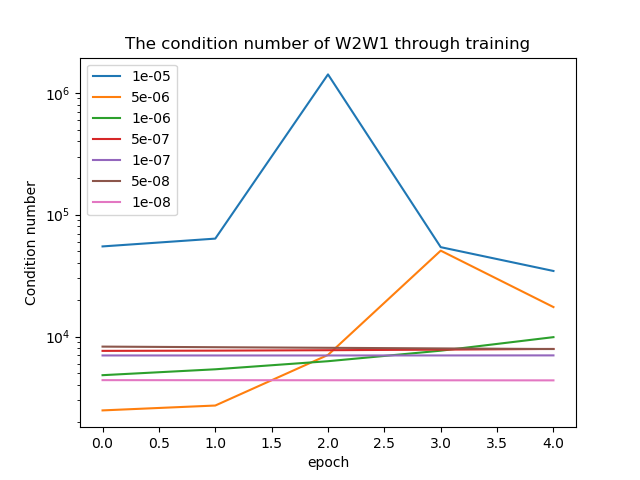
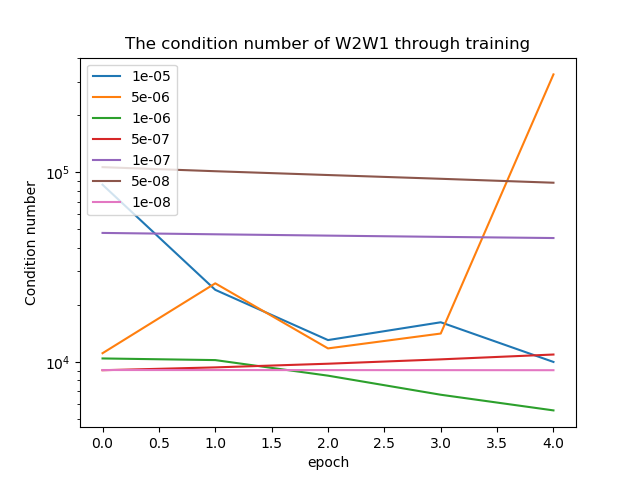
New graph

diff --git a/dynamics/autograd.py b/dynamics/autograd.py
@@ -15,7 +15,7 @@ y_size, x_size, mid_dim = 100, 100, 100
 
 learning_rate_list = [1e-5, 5e-6, 1e-6, 5e-7, 1e-7, 5e-8, 1e-8]
 
-epoch = int(5)
+epoch = int(5E4)
 x_axis = list(range(epoch))
 
 loss_dict, condition_number_dict, max_allowed_learning_rate_dict, equivalent_weight_dict = {}, {}, {}, {}
